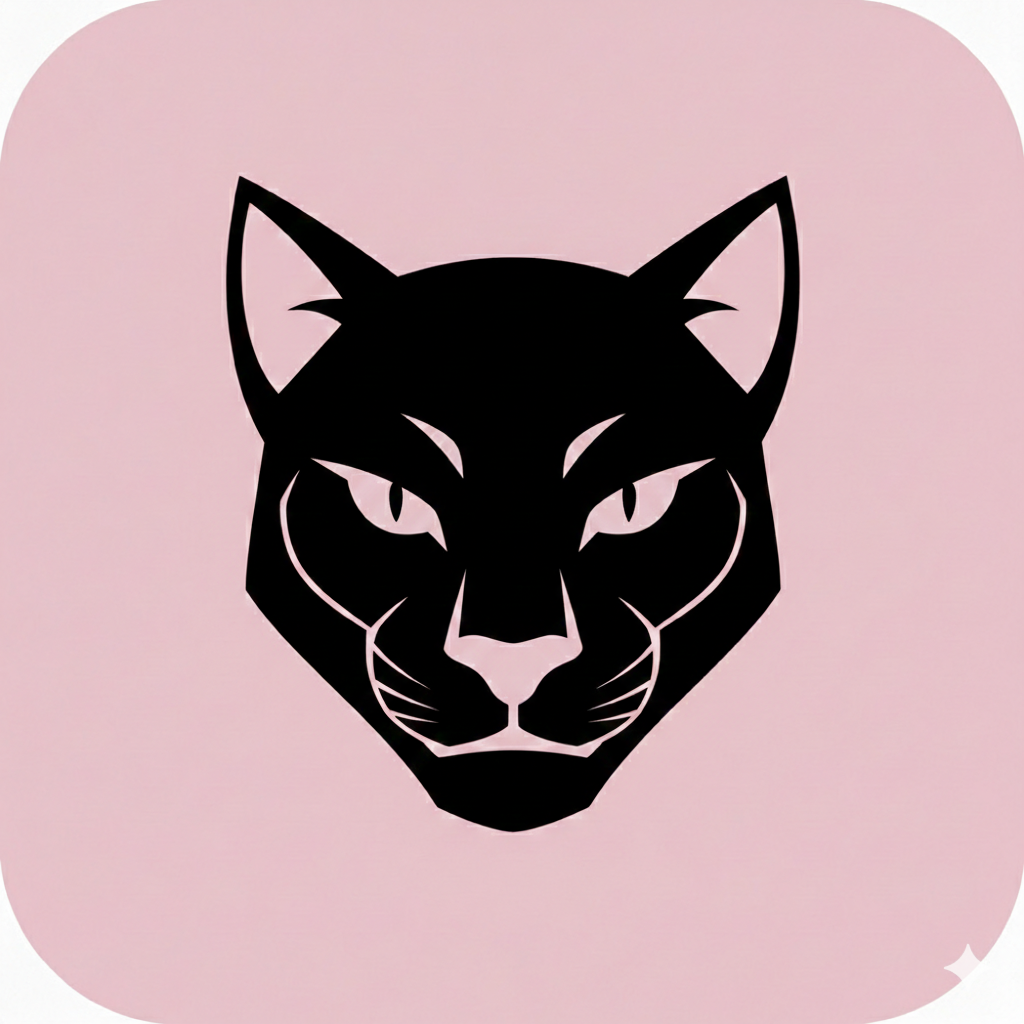
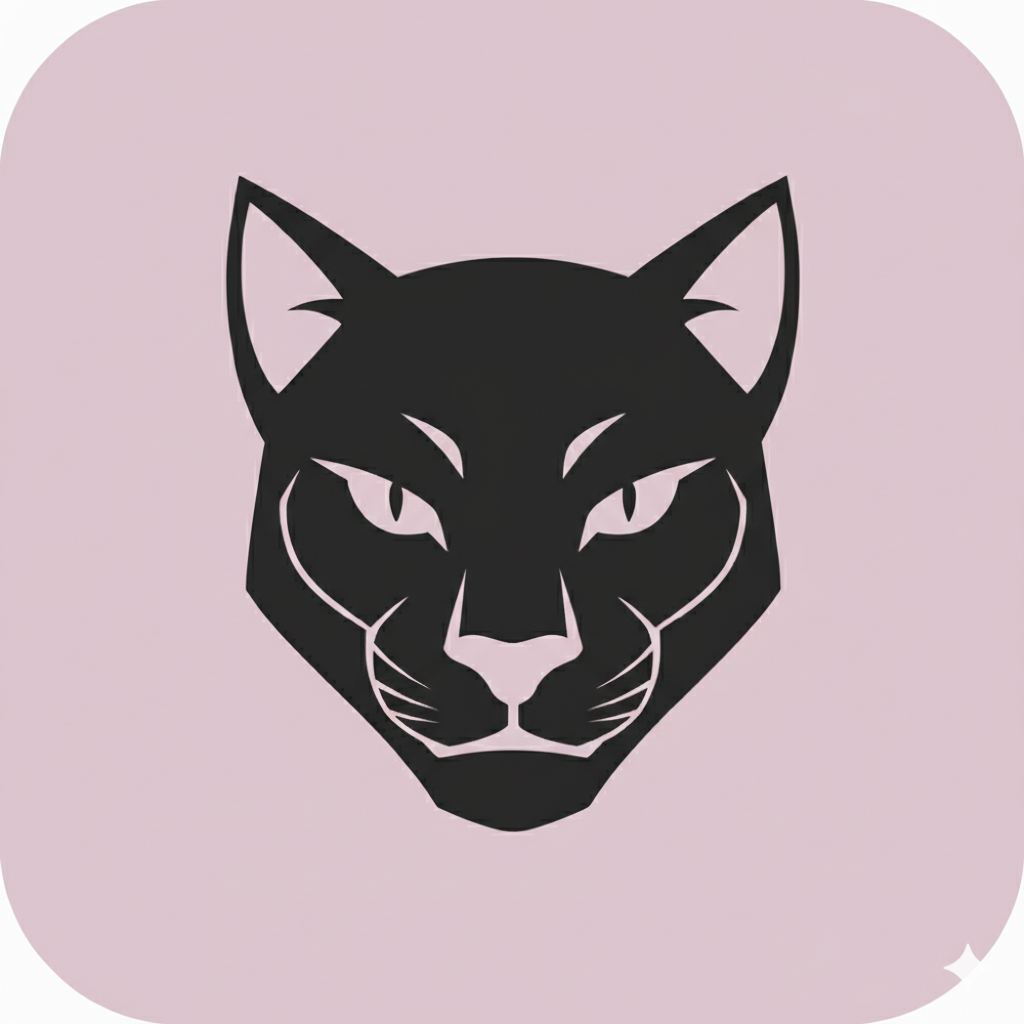
Updated social links card. Re-styled colors and buttons.

Changed region(s): [[0.2188, 0.1562, 0.7812, 0.8125]]

diff --git a/src/styles/global.css b/src/styles/global.css
@@ -3,12 +3,16 @@
 
 @theme {
   /* colors */ 
-  --color-black: hsl(0 0% 8%);
-  --color-grey: hsl(0 0% 12%);
-  --color-light-grey: hsl(0 0% 20%);
-  --color-green: hsl(75 94% 57%);
+  --color-primary: hsl(316 72% 86%);
+  --color-secondary: hsl(115 54% 76%);
+  --color-accent: hsl(199 76% 69%);
+  --color-base: hsl(240 21% 15%);
+  --color-mantle: hsl(240 21% 12%);
+  --color-text: hsl(226 64% 88%);
+  --color-subtext: hsl(228 24% 72%);
+  --color-subtext2: hsl(237 16% 23%);
+  --color-crust: hsl(240 23% 9%);
 
   /* fonts */ 
   --font-brand: "Inter", sans-serif;
 }
-

diff --git a/README.md b/README.md
@@ -1,17 +1,7 @@
-# Challenge 3 from Frontend Mentor
+# Social Links
 
-## Tools and Frameworks:
+Follow me through the world of the internet via my social links!
 
-Astro, Tailwind CSS, GitHub, Vercel
-
-## Skills Used:
-
-Flexbox, responsive layout with Tailwind utility classes. Hover utility classes.
-
-## Challenges:
-
-This felt like the easiest challenge yet. That is because flexbox is becoming much more second hand. Albiet a simple design, initial layout is much more intuitive.
-The biggest challenge here was figuring out how to template each "button" link and calling them back to index.astro.
 
 --- 
 
